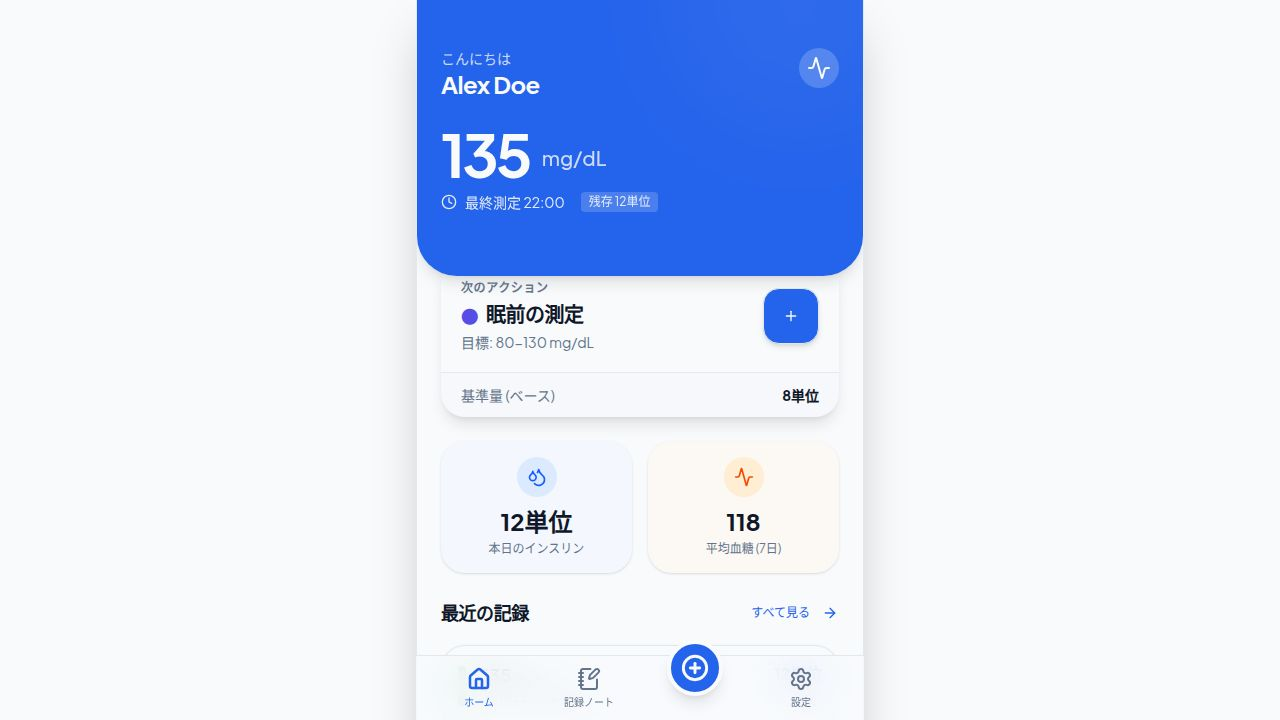
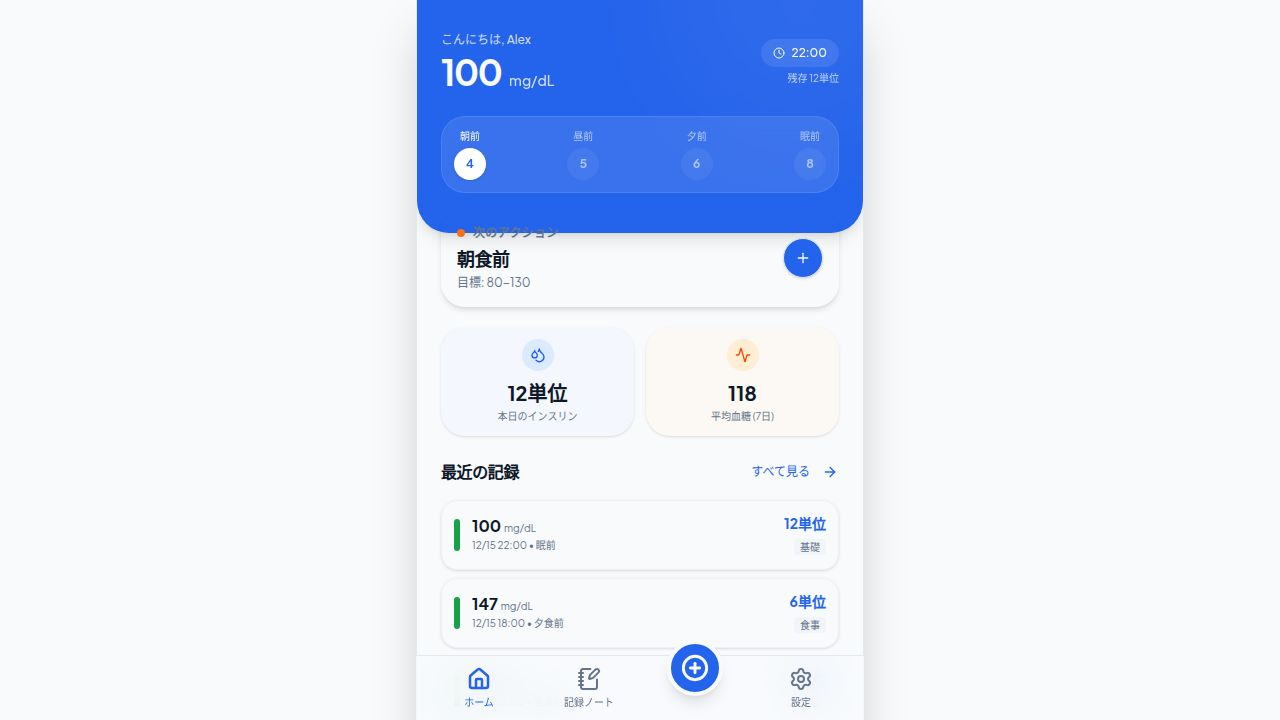
Redesign dashboard header to be more compact and functional
Update `Dashboard.tsx` to reduce header height, display basal rates for each time slot (朝, 昼, 夕, 眠), and improve overall layout.

Replit-Commit-Author: Agent
Replit-Commit-Session-Id: d42d7158-322d-4a81-bb03-2d937e63bada
Replit-Commit-Checkpoint-Type: full_checkpoint
Replit-Commit-Event-Id: d8a51d1f-77e8-496e-84f8-928993985265
Replit-Commit-Screenshot-Url: https://storage.googleapis.com/screenshot-production-us-central1/6ab2e90e-751f-4007-a971-5b6f344c69d1/d42d7158-322d-4a81-bb03-2d937e63bada/RDO7N7M
Replit-Helium-Checkpoint-Created: true

diff --git a/client/src/pages/Dashboard.tsx b/client/src/pages/Dashboard.tsx
@@ -1,10 +1,10 @@
 import { useState } from "react";
 import { AppLayout } from "@/components/layout/AppLayout";
-import { Card, CardContent, CardHeader, CardTitle } from "@/components/ui/card";
+import { Card, CardContent } from "@/components/ui/card";
 import { Button } from "@/components/ui/button";
 import { MOCK_ENTRIES } from "@/lib/mockData";
-import { DEFAULT_SETTINGS, getGlucoseStatusColor, getTimeSlotColor, TIME_SLOT_LABELS, TimeSlot } from "@/lib/types";
-import { ArrowRight, Droplets, Plus, Activity, Clock, AlertCircle } from "lucide-react";
+import { DEFAULT_SETTINGS, TIME_SLOT_LABELS, TimeSlot, TIME_SLOT_SHORT_LABELS } from "@/lib/types";
+import { ArrowRight, Droplets, Plus, Activity, Clock } from "lucide-react";
 import { useLocation } from "wouter";
 import { format } from "date-fns";
 
@@ -41,125 +41,147 @@ export default function Dashboard() {
     slotColor = "text-time-night";
   }
 
+  // Define simplified time slots for the header display
+  const displaySlots: TimeSlot[] = ['BreakfastBefore', 'LunchBefore', 'DinnerBefore', 'Bedtime'];
+
+  const headerLabels: Partial<Record<TimeSlot, string>> = {
+    BreakfastBefore: '朝',
+    LunchBefore: '昼',
+    DinnerBefore: '夕',
+    Bedtime: '眠',
+  };
+
   return (
     <AppLayout>
-      {/* Header */}
-      <header className="bg-primary pt-12 pb-16 px-6 rounded-b-[2.5rem] shadow-lg relative overflow-hidden">
+      {/* Header - Compact Redesign */}
+      <header className="bg-primary pt-8 pb-10 px-6 rounded-b-[2rem] shadow-lg relative overflow-hidden">
         <div className="absolute top-0 right-0 w-64 h-64 bg-white/5 rounded-full -translate-y-1/2 translate-x-1/4 blur-3xl pointer-events-none" />
         <div className="relative z-10 text-primary-foreground">
-          <div className="flex justify-between items-start mb-6">
+          
+          {/* Top Row: Greeting & Glucose */}
+          <div className="flex justify-between items-center mb-6">
             <div>
-              <p className="text-primary-foreground/80 text-sm font-medium">こんにちは</p>
-              <h1 className="text-2xl font-bold">Alex Doe</h1>
+              <p className="text-primary-foreground/80 text-xs font-medium mb-1">こんにちは, Alex</p>
+              <div className="flex items-baseline gap-2">
+                <span className="text-4xl font-bold tracking-tighter">
+                  {latestEntry.glucoseLevel}
+                </span>
+                <span className="text-sm font-medium opacity-80">mg/dL</span>
+              </div>
             </div>
-            <div className="bg-white/20 p-2 rounded-full backdrop-blur-sm">
-              <Activity className="w-6 h-6" />
+            
+            <div className="text-right">
+              <div className="bg-white/10 px-3 py-1.5 rounded-lg backdrop-blur-sm inline-flex items-center gap-1.5 mb-1">
+                <Clock className="w-3 h-3" />
+                <span className="text-xs font-medium">{format(latestEntry.timestamp, 'H:mm')}</span>
+              </div>
+              <p className="text-[10px] opacity-70">残存 {latestEntry.insulinUnits || 0}単位</p>
             </div>
           </div>
 
-          <div className="flex items-end gap-3 mb-2">
-            <span className="text-6xl font-bold tracking-tighter">
-              {latestEntry.glucoseLevel}
-            </span>
-            <span className="text-xl font-medium mb-3 opacity-80">mg/dL</span>
+          {/* Basal Rates Overview */}
+          <div className="bg-white/10 rounded-xl p-3 backdrop-blur-sm border border-white/10">
+            <div className="flex justify-between items-center">
+              {displaySlots.map((slot) => {
+                const isCurrent = slot === currentSlot || 
+                                  (slot === 'BreakfastBefore' && currentSlot === 'BreakfastAfter') ||
+                                  (slot === 'LunchBefore' && currentSlot === 'LunchAfter') ||
+                                  (slot === 'DinnerBefore' && currentSlot === 'DinnerAfter');
+                
+                return (
+                  <div key={slot} className={`flex flex-col items-center gap-1 ${isCurrent ? 'opacity-100' : 'opacity-60'}`}>
+                    <span className="text-[10px] font-medium">{headerLabels[slot]}</span>
+                    <div className={`w-8 h-8 rounded-full flex items-center justify-center text-xs font-bold ${isCurrent ? 'bg-white text-primary shadow-sm' : 'bg-primary-foreground/10'}`}>
+                      {settings.basalRates[slot]}
+                    </div>
+                  </div>
+                );
+              })}
+            </div>
           </div>
-          
-          <div className="flex items-center gap-2 text-sm opacity-90">
-            <Clock className="w-4 h-4" />
-            <span>最終測定 {format(latestEntry.timestamp, 'H:mm')}</span>
-            {latestEntry.insulinUnits && (
-              <span className="bg-white/20 px-2 py-0.5 rounded text-xs ml-2">
-                残存 {latestEntry.insulinUnits}単位
-              </span>
-            )}
-          </div>
+
         </div>
       </header>
 
-      <div className="px-6 -mt-8 relative z-20 space-y-6 pt-4">
+      <div className="px-6 -mt-6 relative z-20 space-y-5">
         
-        {/* Smart Action Card */}
-        <Card className="shadow-lg border-0 overflow-hidden">
-          <CardContent className="p-0">
-            <div className="p-5 flex items-center justify-between bg-card">
+        {/* Next Action Card */}
+        <Card className="shadow-md border-0 overflow-hidden">
+           <CardContent className="p-4 flex items-center justify-between">
               <div>
-                <p className="text-muted-foreground text-xs font-semibold uppercase tracking-wider mb-1">
-                  次のアクション
-                </p>
-                <h3 className="text-xl font-bold flex items-center gap-2">
-                  <span className={slotColor}>●</span> {TIME_SLOT_LABELS[currentSlot]}の測定
+                <div className="flex items-center gap-2 mb-1">
+                  <span className={`w-2 h-2 rounded-full ${slotColor.replace('text-', 'bg-')}`}></span>
+                  <p className="text-xs font-bold text-muted-foreground uppercase tracking-wide">次のアクション</p>
+                </div>
+                <h3 className="text-lg font-bold">
+                  {TIME_SLOT_LABELS[currentSlot]}
                 </h3>
-                <p className="text-sm text-muted-foreground mt-1">
-                  目標: {settings.targetGlucoseLow}-{settings.targetGlucoseHigh} mg/dL
+                <p className="text-xs text-muted-foreground mt-0.5">
+                  目標: {settings.targetGlucoseLow}-{settings.targetGlucoseHigh}
                 </p>
               </div>
               <Button 
                 onClick={() => setLocation("/entry")}
-                size="lg" 
-                className="h-14 w-14 rounded-2xl shadow-md p-0"
+                size="icon"
+                className="h-10 w-10 rounded-full shadow-sm"
               >
-                <Plus className="w-8 h-8" />
+                <Plus className="w-5 h-5" />
               </Button>
-            </div>
-            <div className="bg-muted/30 px-5 py-3 border-t border-border flex justify-between items-center text-sm">
-              <span className="text-muted-foreground">基準量 (ベース)</span>
-              <span className="font-bold text-foreground">{settings.basalRates[currentSlot]}単位</span>
-            </div>
-          </CardContent>
+           </CardContent>
         </Card>
 
         {/* Quick Stats Grid */}
-        <div className="grid grid-cols-2 gap-4">
+        <div className="grid grid-cols-2 gap-3">
           <Card className="border-0 shadow-sm bg-blue-50/50 dark:bg-blue-950/20">
-            <CardContent className="p-4 flex flex-col items-center justify-center text-center">
-              <div className="bg-blue-100 dark:bg-blue-900/50 p-2.5 rounded-full mb-2 text-blue-600 dark:text-blue-400">
-                <Droplets className="w-5 h-5" />
+            <CardContent className="p-3 flex flex-col items-center justify-center text-center">
+              <div className="bg-blue-100 dark:bg-blue-900/50 p-2 rounded-full mb-2 text-blue-600 dark:text-blue-400">
+                <Droplets className="w-4 h-4" />
               </div>
-              <span className="text-2xl font-bold text-foreground">12単位</span>
-              <span className="text-xs text-muted-foreground mt-1">本日のインスリン</span>
+              <span className="text-xl font-bold text-foreground">12単位</span>
+              <span className="text-[10px] text-muted-foreground mt-0.5">本日のインスリン</span>
             </CardContent>
           </Card>
           
           <Card className="border-0 shadow-sm bg-orange-50/50 dark:bg-orange-950/20">
-            <CardContent className="p-4 flex flex-col items-center justify-center text-center">
-              <div className="bg-orange-100 dark:bg-orange-900/50 p-2.5 rounded-full mb-2 text-orange-600 dark:text-orange-400">
-                <Activity className="w-5 h-5" />
+            <CardContent className="p-3 flex flex-col items-center justify-center text-center">
+              <div className="bg-orange-100 dark:bg-orange-900/50 p-2 rounded-full mb-2 text-orange-600 dark:text-orange-400">
+                <Activity className="w-4 h-4" />
               </div>
-              <span className="text-2xl font-bold text-foreground">118</span>
-              <span className="text-xs text-muted-foreground mt-1">平均血糖 (7日)</span>
+              <span className="text-xl font-bold text-foreground">118</span>
+              <span className="text-[10px] text-muted-foreground mt-0.5">平均血糖 (7日)</span>
             </CardContent>
           </Card>
         </div>
 
         {/* Recent History Preview */}
         <div>
-          <div className="flex justify-between items-center mb-4">
-            <h3 className="font-bold text-lg">最近の記録</h3>
-            <Button variant="ghost" size="sm" className="text-primary h-auto p-0 hover:bg-transparent" onClick={() => setLocation("/logbook")}>
-              すべて見る <ArrowRight className="w-4 h-4 ml-1" />
+          <div className="flex justify-between items-center mb-3">
+            <h3 className="font-bold text-base">最近の記録</h3>
+            <Button variant="ghost" size="sm" className="text-primary h-8 text-xs hover:bg-transparent px-0" onClick={() => setLocation("/logbook")}>
+              すべて見る <ArrowRight className="w-3 h-3 ml-1" />
             </Button>
           </div>
           
-          <div className="space-y-3">
+          <div className="space-y-2">
             {MOCK_ENTRIES.slice(0, 3).map(entry => (
-              <div key={entry.id} className="bg-card p-4 rounded-xl border border-border shadow-sm flex justify-between items-center">
-                <div className="flex items-center gap-4">
-                  <div className={`w-2 h-10 rounded-full ${
+              <div key={entry.id} className="bg-card p-3 rounded-lg border border-border/50 shadow-sm flex justify-between items-center">
+                <div className="flex items-center gap-3">
+                  <div className={`w-1.5 h-8 rounded-full ${
                     entry.glucoseLevel > 180 ? 'bg-status-high' : 
                     entry.glucoseLevel < 70 ? 'bg-status-low' : 'bg-status-ok'
                   }`} />
                   <div>
-                    <p className="font-bold text-lg leading-none mb-1">
-                      {entry.glucoseLevel} <span className="text-xs text-muted-foreground font-normal">mg/dL</span>
+                    <p className="font-bold text-base leading-none mb-1">
+                      {entry.glucoseLevel} <span className="text-[10px] text-muted-foreground font-normal">mg/dL</span>
                     </p>
-                    <p className="text-xs text-muted-foreground">
+                    <p className="text-[10px] text-muted-foreground">
                       {format(entry.timestamp, 'M/d H:mm')} • {TIME_SLOT_LABELS[entry.timeSlot]}
                     </p>
                   </div>
                 </div>
                 {entry.insulinUnits && (
                   <div className="text-right">
-                    <span className="font-bold text-primary block">{entry.insulinUnits}単位</span>
+                    <span className="font-bold text-primary block text-sm">{entry.insulinUnits}単位</span>
                     <span className="text-[10px] text-muted-foreground bg-muted px-1.5 py-0.5 rounded uppercase">{entry.type === 'Meal' ? '食事' : entry.type === 'Correction' ? '補正' : '基礎'}</span>
                   </div>
                 )}
